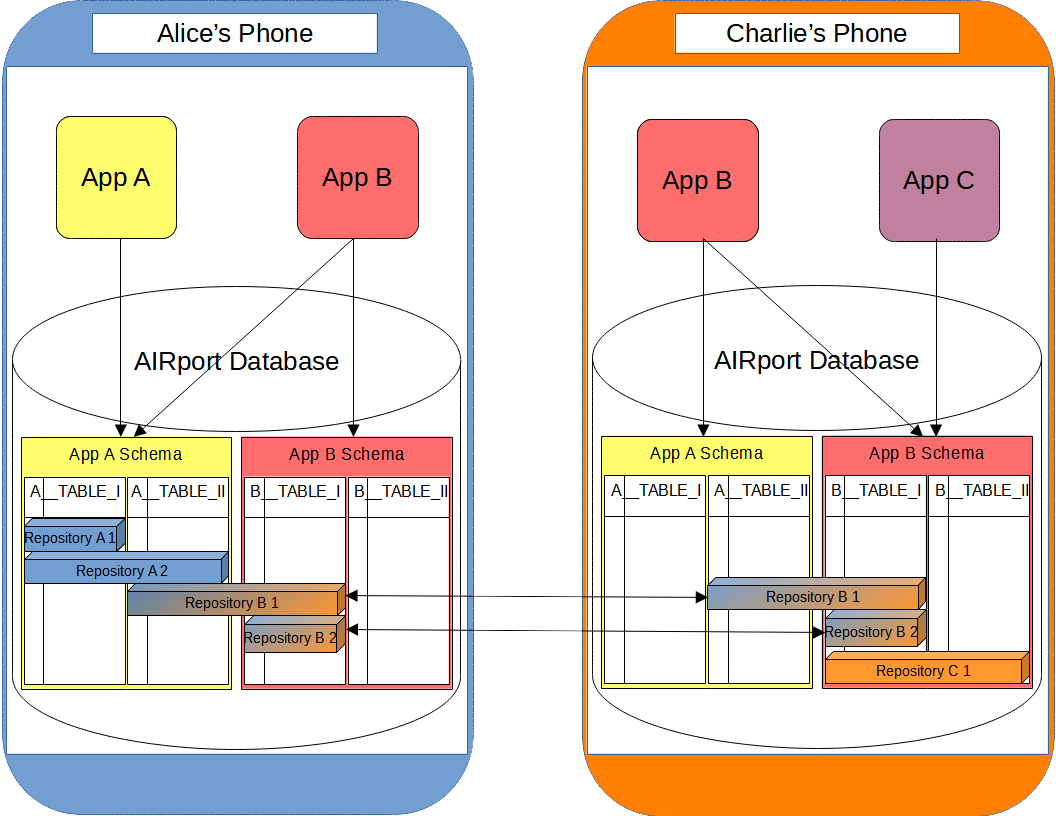
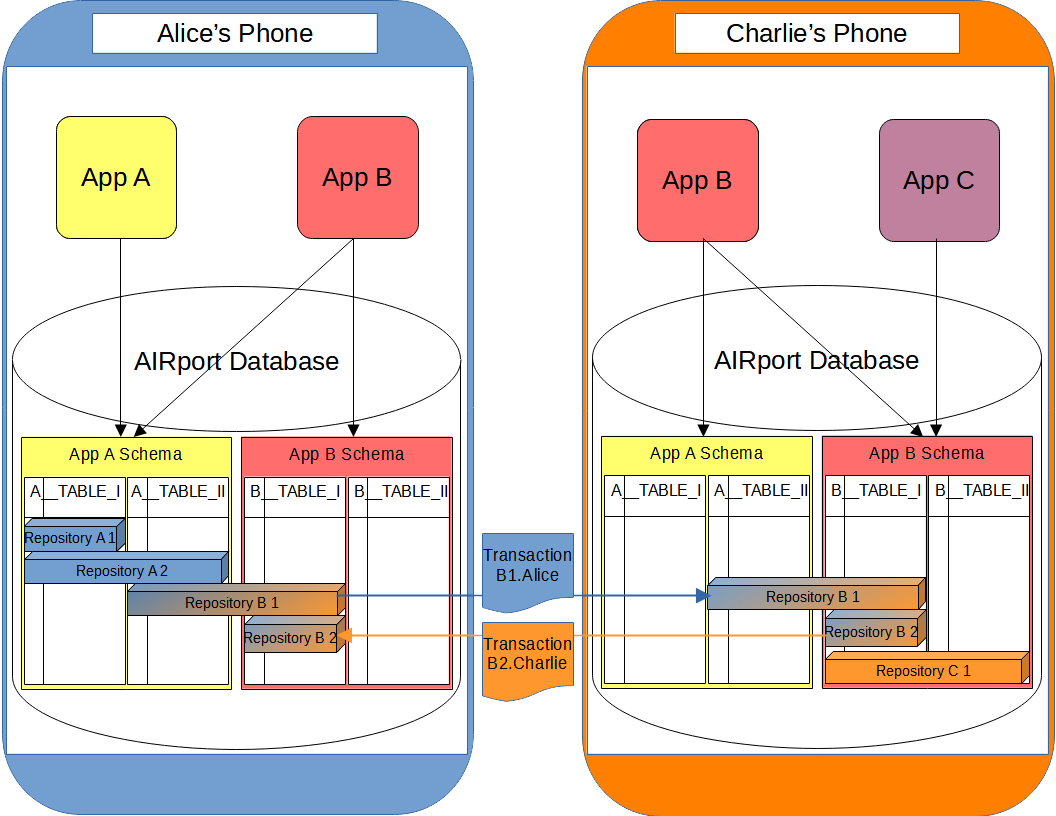
Updated cross device diagram, added Transaction Log diagram and paragraph to main page. Fixed slide 8 & 9 positioning on the pitch deck.

Changed region(s): [[0.3125, 0.6434, 0.7812, 0.8578]]

diff --git a/.history/Pitch_Deck_20210604103730.html b/.history/Pitch_Deck_20210604103730.html
@@ -5499,13 +5499,13 @@
                             <div id="slide8Parent" style="display: none;"
                                  class="moodSlideParent slideShow"
                                  style="pointer-events: none; z-index: 1;">
-                                <div id="SLIDE8BG"
+                                <div id="SLIDE6BG"
                                      class="simplecss mood commonLayout Poppins_Roboto graphicLayoutTextTop txtgraphic multiColorDark secHighlightWhitebg moodBackground"
                                      data-layer-name="SLIDE1BG"
                                      style="transition: all 2s ease 0.4s;"></div>
                                 <div data-layer-name="SLIDE1"
                                      class="moodSlideContentParentDiv">
-                                    <div id="SLIDE8"
+                                    <div id="SLIDE6"
                                          data-type="SLIDE" data-layout="graphicLayoutTextTop"
                                          data-font="Poppins_Roboto"
                                          class="simplecss mood commonLayout Poppins_Roboto graphicLayoutTextTop txtgraphic multiColorDark secHighlightWhitebg"
@@ -6681,13 +6681,13 @@
                             <div id="slide9Parent" style="display: none;"
                                  class="moodSlideParent slideShow"
                                  style="pointer-events: none; z-index: 1;">
-                                <div id="SLIDE9BG"
+                                <div id="SLIDE7BG"
                                      class="simplecss mood commonLayout Poppins_Roboto graphicLayoutTextTop txtgraphic multiColorDark secHighlightWhitebg moodBackground"
                                      data-layer-name="SLIDE0BG"
                                      style="transition: all 2s ease 0.4s;"></div>
                                 <div data-layer-name="SLIDE0"
                                      class="moodSlideContentParentDiv">
-                                    <div id="SLIDE9"
+                                    <div id="SLIDE7"
                                          data-type="SLIDE" data-layout="graphicLayoutTextTop"
                                          data-font="Poppins_Roboto"
                                          class="simplecss mood commonLayout Poppins_Roboto graphicLayoutTextTop txtgraphic multiColorDark secHighlightWhitebg"

diff --git a/.history/Pitch_Deck_20210615165350.html b/.history/Pitch_Deck_20210615165350.html
@@ -5505,7 +5505,7 @@
                                      style="transition: all 2s ease 0.4s;"></div>
                                 <div data-layer-name="SLIDE1"
                                      class="moodSlideContentParentDiv">
-                                    <div id="SLIDE8"
+                                    <div id="SLIDE6"
                                          data-type="SLIDE" data-layout="graphicLayoutTextTop"
                                          data-font="Poppins_Roboto"
                                          class="simplecss mood commonLayout Poppins_Roboto graphicLayoutTextTop txtgraphic multiColorDark secHighlightWhitebg"
@@ -6681,13 +6681,13 @@
                             <div id="slide9Parent" style="display: none;"
                                  class="moodSlideParent slideShow"
                                  style="pointer-events: none; z-index: 1;">
-                                <div id="SLIDE9BG"
+                                <div id="SLIDE7BG"
                                      class="simplecss mood commonLayout Poppins_Roboto graphicLayoutTextTop txtgraphic multiColorDark secHighlightWhitebg moodBackground"
                                      data-layer-name="SLIDE0BG"
                                      style="transition: all 2s ease 0.4s;"></div>
                                 <div data-layer-name="SLIDE0"
                                      class="moodSlideContentParentDiv">
-                                    <div id="SLIDE9"
+                                    <div id="SLIDE7"
                                          data-type="SLIDE" data-layout="graphicLayoutTextTop"
                                          data-font="Poppins_Roboto"
                                          class="simplecss mood commonLayout Poppins_Roboto graphicLayoutTextTop txtgraphic multiColorDark secHighlightWhitebg"

diff --git a/.history/index_20210603140833.html b/.history/index_20210603140833.html
@@ -540,22 +540,7 @@
                 the Repositories the user of that device decides to keep on it.
             </p>
             <img src="images/airport/AIRport_diagram_1.png">
-            <br>
-            <br>
-            <p>
-                AIRport Repositories have blockchain based transaction log storage to enable
-                communication between devices. AIRport is fully functional off-line, commits
-                are made locally and are added to the "longest chain" once device is back on-line.
-                 Each Repository transaction log is a separate chain and itself can consist of
-                 sub-chains if devices go out of sync. Thus, the Repository transaction log is a
-                 Directed Acyclic Graph with each commit being a separate block and all sub-chains
-                 are resolved to the "longest chain" via timestamp based conflict resolution
-                 mechanism.
-            </p>
-            <img src="images/airport/AIRport_Transaction_Log.png">
         </div>
-        <br>
-        <br>
         <h4>Whitepaper</h4>
         <div class="col-six tab-full left">
             <b>Abstract</b>

diff --git a/.history/Pitch_Deck_20210615165406.html b/.history/Pitch_Deck_20210615165406.html
@@ -5505,7 +5505,7 @@
                                      style="transition: all 2s ease 0.4s;"></div>
                                 <div data-layer-name="SLIDE1"
                                      class="moodSlideContentParentDiv">
-                                    <div id="SLIDE8"
+                                    <div id="SLIDE6"
                                          data-type="SLIDE" data-layout="graphicLayoutTextTop"
                                          data-font="Poppins_Roboto"
                                          class="simplecss mood commonLayout Poppins_Roboto graphicLayoutTextTop txtgraphic multiColorDark secHighlightWhitebg"

diff --git a/.history/index_20210615162337.html b/.history/index_20210615162337.html
@@ -540,8 +540,6 @@
                 the Repositories the user of that device decides to keep on it.
             </p>
             <img src="images/airport/AIRport_diagram_1.png">
-            <br>
-            <br>
             <p>
                 AIRport Repositories have blockchain based transaction log storage to enable
                 communication between devices. AIRport is fully functional off-line, commits
@@ -554,7 +552,6 @@
             </p>
             <img src="images/airport/AIRport_Transaction_Log.png">
         </div>
-        <br>
         <br>
         <h4>Whitepaper</h4>
         <div class="col-six tab-full left">
